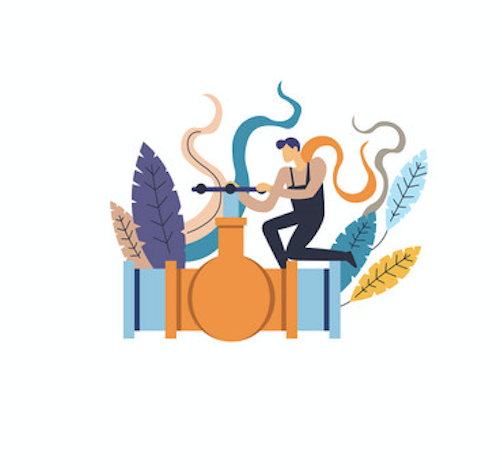
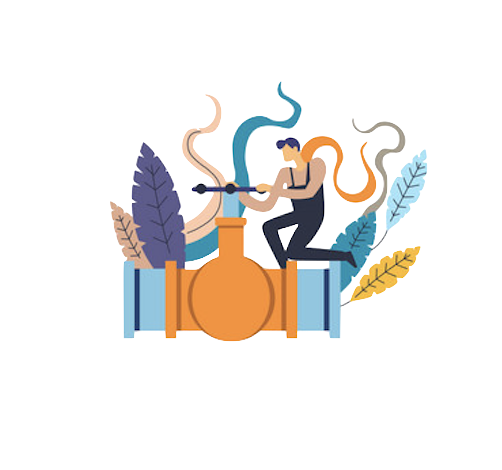
no message

diff --git a/resources/views/front/client/home.blade.php b/resources/views/front/client/home.blade.php
@@ -55,7 +55,7 @@
                                 </div> <!-- /.posts -->
                                 @else
                                     <h3> No posts yet</h3>
-                                    <img src="/public/images/client/no-posts.png" alt="no posts">
+                                    <img class="img-fluid" src="/public/images/client/no-posts.png" alt="no posts">
                                 @endif
                             </div><!-- /.content -->
                         </div><!-- /.col-* -->
